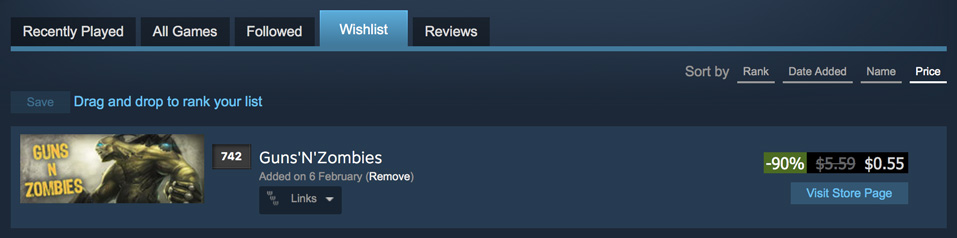
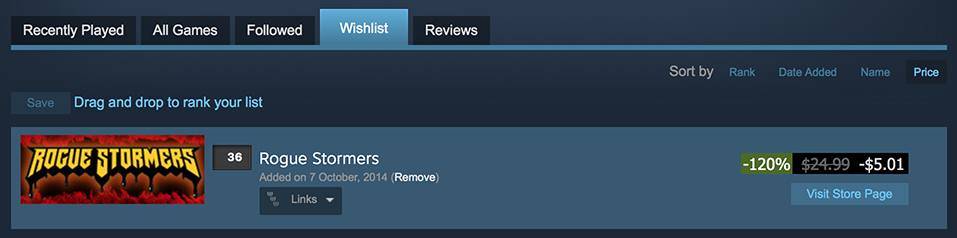
wishlist sorting, squared

diff --git a/styles.css b/styles.css
@@ -102,17 +102,16 @@ html body #wishlist_sort_options.sort_options .selected_sort {
 	font-size: 11px;
 	display: inline-block;
 	vertical-align: middle;
-	padding: 4px 6px;
-	color: #aaa;
-	border-bottom: 1px solid #999;
+	padding: 6px 8px;
+	color: #407898;
 	text-decoration: none;
 	}
 html body #wishlist_sort_options.sort_options a:hover {
-	border-bottom-color: #fff;
+	color: #fff;
 	}
 html body #wishlist_sort_options.sort_options .selected_sort {
-	color: #fff;
-	border-bottom-color: #fff;
+	color: #67c1f5;
+	background: #18222e;
 	}
 /* usability fix */
 html body #wishlist_items input.wishlist_rank {
@@ -167,6 +166,12 @@ html body .game_purchase_action_bg,
 html body #package_savings_bar,
 html body .authcode_entry_box,
 html body .twofactorauthcode_entry_box,
+html body .completed_badge_animation_ctn,
+html body .completed_badge_ctn,
+html body .completed_badge_inner,
+html body .badge_reward_ctn,
+html body .badge_reward,
+html body .alertbox_content,
 /* all tabs */
 html body .home_tab,
 html body .home_tab .tab_content,
@@ -174,10 +179,13 @@ html body .apphub_sectionTab,
 html body a.apphub_sectionTab,
 html body .apphub_sectionTab.active > span,
 html body .games_list_tabs,
+html body .games_list_tab.first_tab,
+html body a.games_list_tab.first_tab,
 html body .games_list_tab.fourth_tab,
 html body a.games_list_tab.fourth_tab,
 html body .sectionTab,
 html body a.sectionTab,
+html body .tabarea .tab,
 html body .tabarea .tab .tab_content,
 /* all progress bars */
 html body .achievement_progress_bar_ctn,
@@ -236,11 +244,27 @@ html body .app_tag,
 html body .slider,
 html body .slider_ctn .slider_left,
 html body .slider_ctn .slider_right,
-html body .slider .handle {
+html body .slider .handle,
+html body .pagebtn,
+html body a.pagebtn {
 	border-radius: 0 !important;
 	}
 
 /* fix square box background (without bg image) */
+html body .searchbox {
+
+	}
+html body .alertbox_header {
+	background: #5c7e10;
+	}
+html body .alertbox_header .leftcap,
+html body .alertbox_header .rightcap {
+	display: none;
+	}
+html body .item_market_action_button_left,
+html body .item_market_action_button_right {
+	display: none;
+	}
 html body .profile_customization {
 	background: #2D3C51;
 	box-shadow: inset -400px 20px 100px rgba(0, 0, 0, 0.5);

diff --git a/CHANGELOG.md b/CHANGELOG.md
@@ -1,5 +1,11 @@
 # Change Log
 
+## v1.3
+* **wishlist page**
+- sotring restyle
+* **squared**
+- add new elements
+
 ## v1.2
 * **main menu**
 - centered and hovered items
